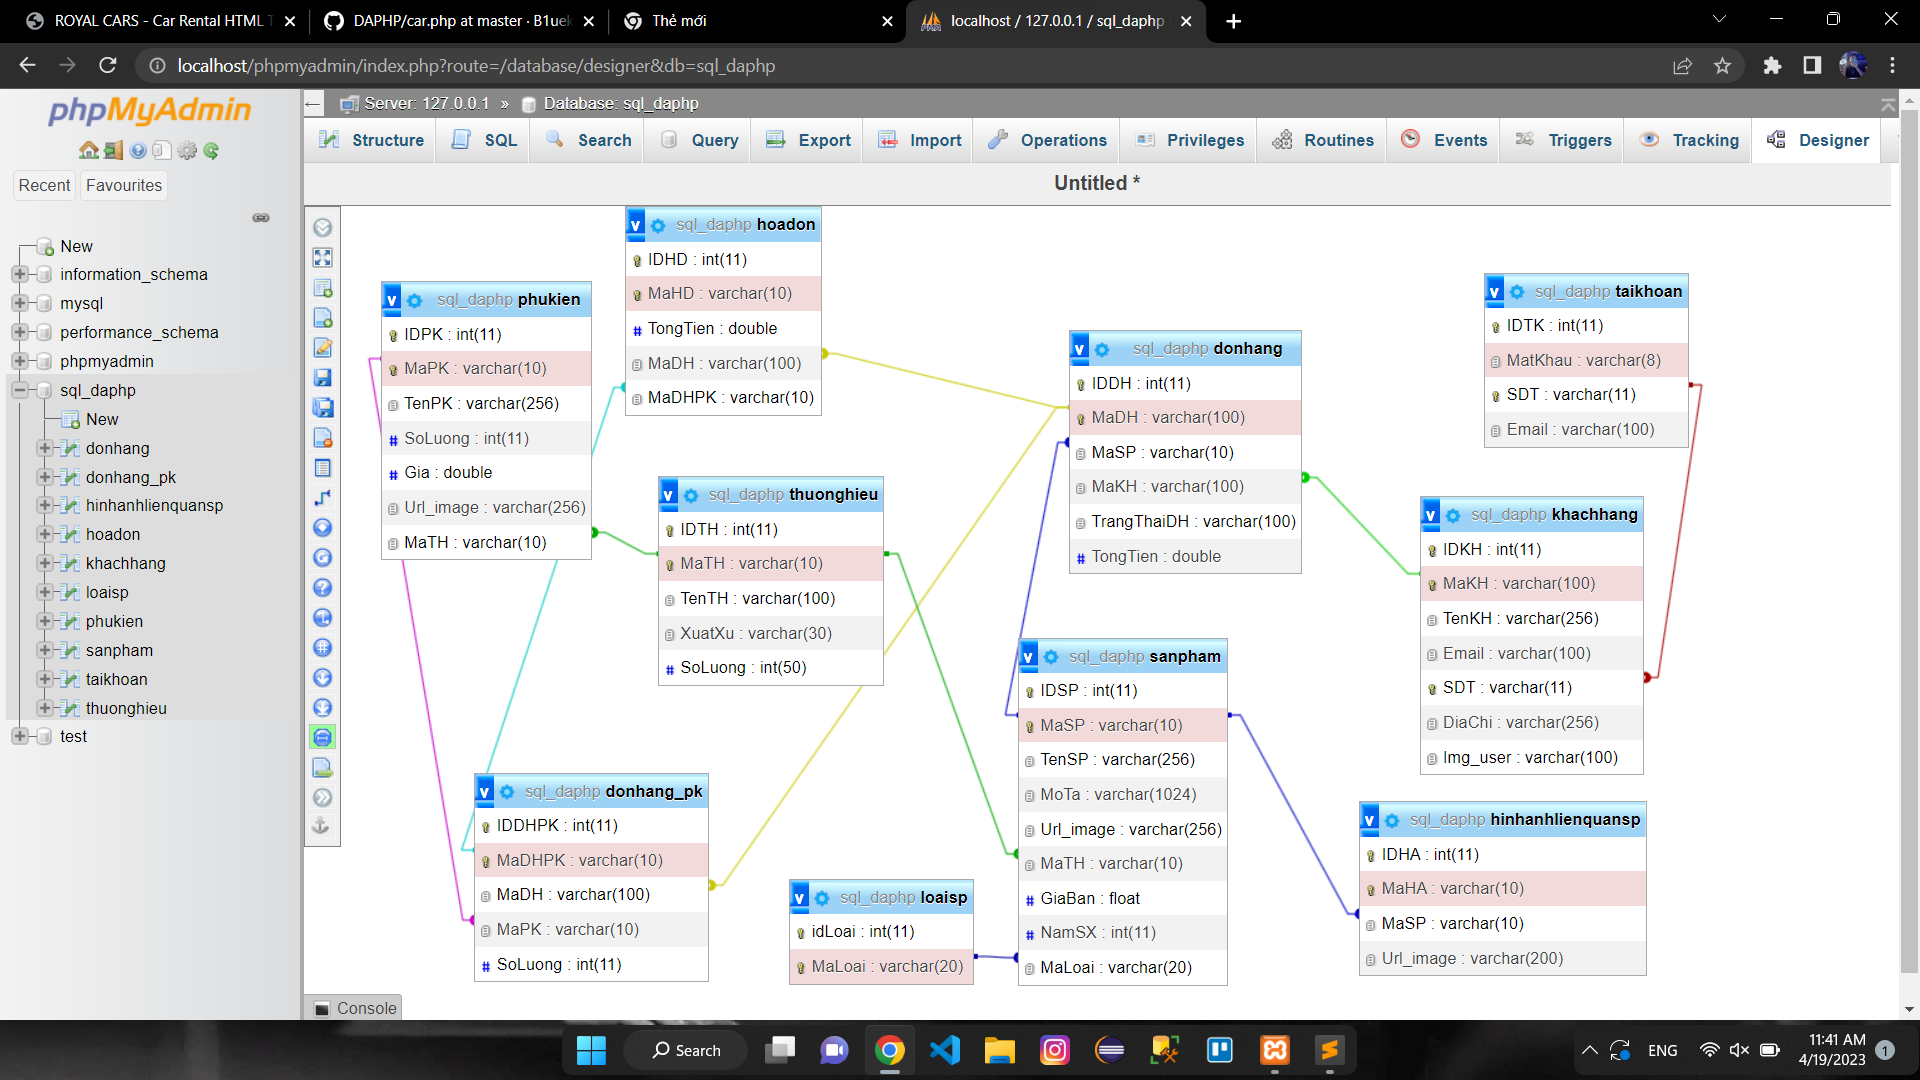
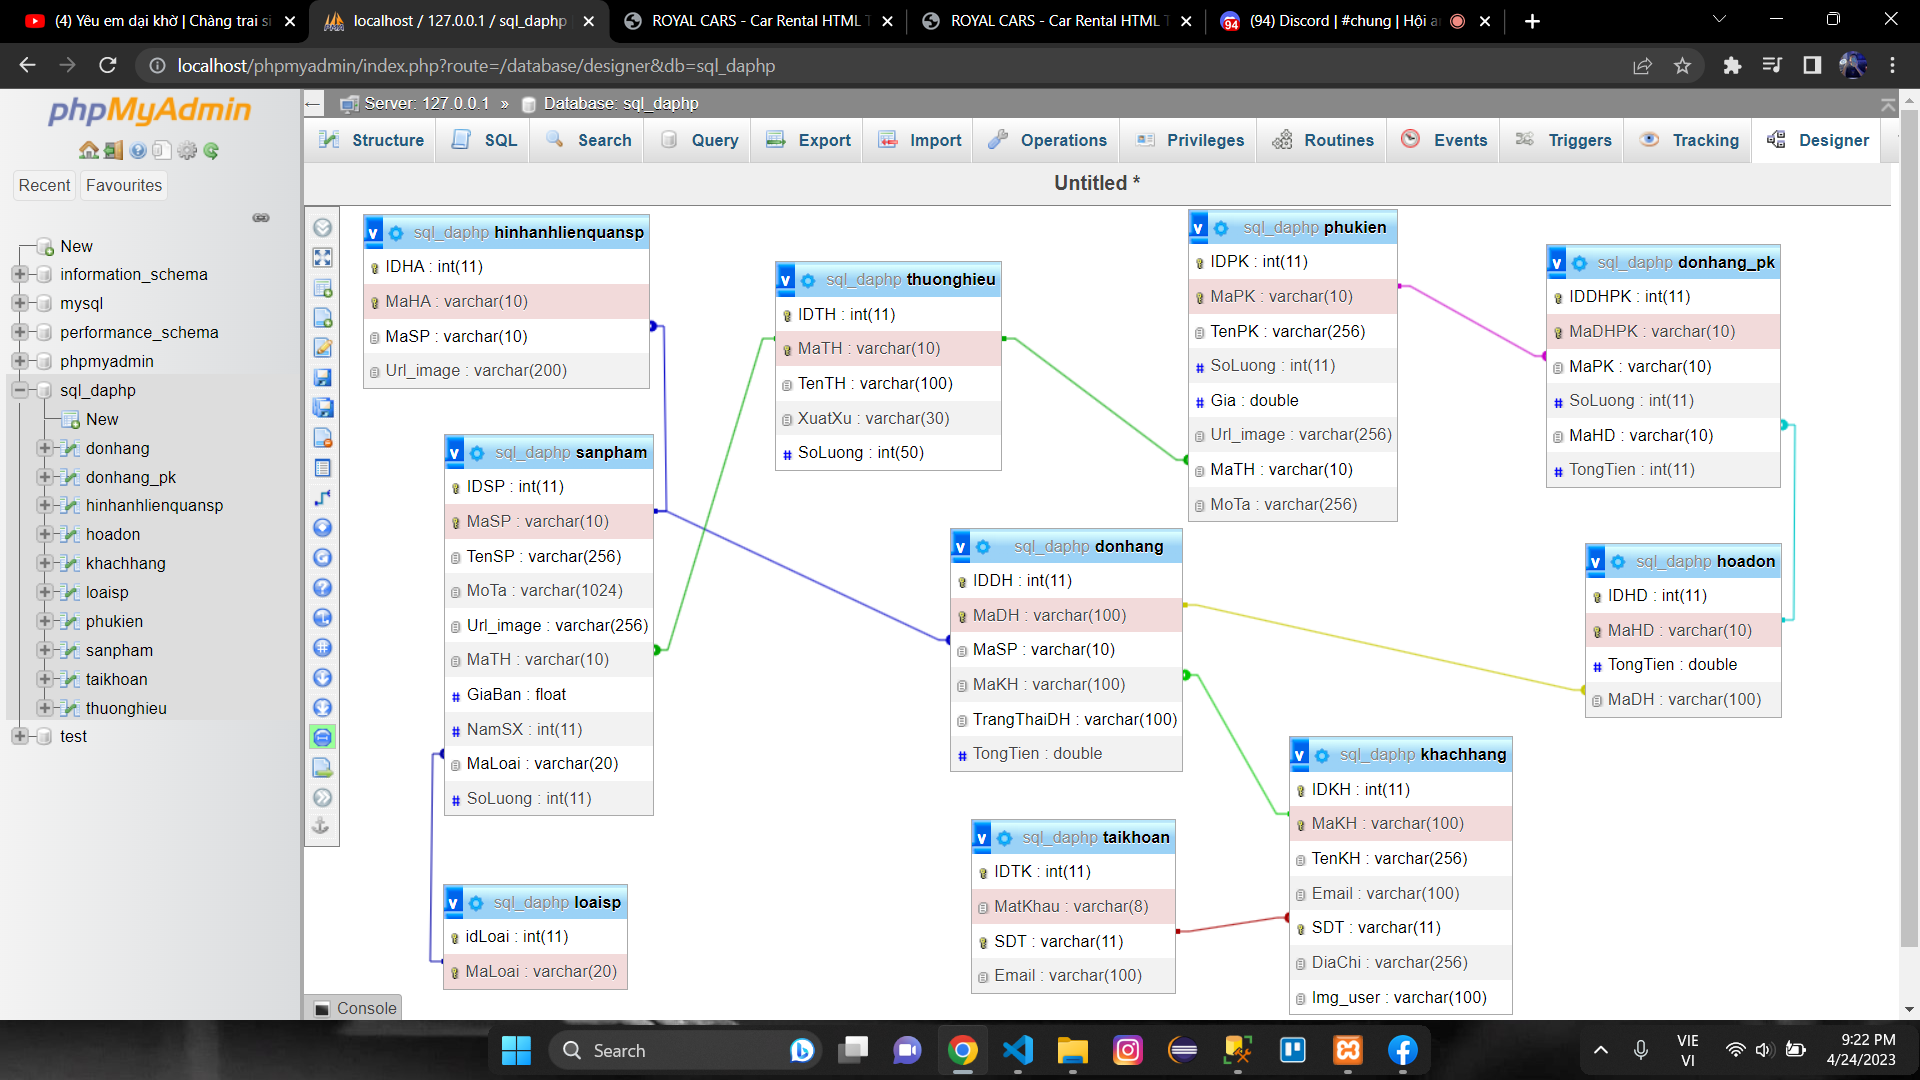
fix CreateOrder.php

diff --git a/CreateOrder.php b/CreateOrder.php
@@ -24,12 +24,12 @@
         $date = date('YmdHis'); // Chuỗi thời gian hiện tại
         $max = strlen($characters) - 1;
         for ($i = 0; $i < $length; $i++) {
-        $result .= $characters[mt_rand(0, $max)]; // Chọn một ký tự ngẫu nhiên từ các ký tự cho sẵn và thêm vào chuỗi kết quả
+            $result .= $characters[mt_rand(0, $max)]; // Chọn một ký tự ngẫu nhiên từ các ký tự cho sẵn và thêm vào chuỗi kết quả
         }
         return $date . $result; // Trả về mã đơn hàng ngẫu nhiên
     }
     function generateMAHD() {
-        $length = 10; // Số ký tự cho mã đơn hàng
+        $length = 20; // Số ký tự cho mã đơn hàng
         $characters = 'ABCDEFGHIJKLMNOPQRSTUVWXYZ0123456789'; //Các ký tự cho mã đơn hàng
         $result = '';
         $max = strlen($characters) - 1;
@@ -49,32 +49,63 @@
         die("Connection failed: " . mysqli_connect_error());
     }
     $sql = sprintf("SELECT  * FROM khachhang WHERE SDT = '%s'", $_SESSION['current_username']);
-    //var_dump($sql);
     $result = mysqli_query($conn, $sql);
     $row = mysqli_fetch_assoc($result);
     $MaKH = $row['MaKH'];
 
-    //echo($MaKH);
-
 
     
-    $MaDH = generateOrderCode();
+    
     $MaHD = generateMAHD(); 
     foreach($_SESSION['cart'] as $product ){
         
         if($product['type']=='car'){
+            $MaDH = generateOrderCode();
+            $sql2 = sprintf("SELECT  * FROM sanpham WHERE MaSP = '%s'", $product['MaSP']);
+            $result2 = mysqli_query($conn, $sql2);
+            $row2 = mysqli_fetch_assoc($result2);
 
-            $taoDH = sprintf("INSERT INTO `donhang`(`MaDH`, `MaSP`, `MaKH`, `TrangThaiDH`, `TongTien`) VALUES ('%s','%s','%s','Prepared','%s')", $MaDH, $product['MaSP'], $MaKH, $Totalcar);
-            //$result1 = mysqli_query($conn, $taoDH);
-            //var_dump($taoDH);
-            //echo($product['MaSP']. "   ");
+            $current_quality = $row2['SoLuong']- $product['quantity'];
+            if($current_quality >= 0){
+                $update_sp = sprintf("UPDATE `sanpham` SET `SoLuong`='%d' WHERE MaSP = '%s'", $current_quality, $product['MaSP']);
+                //var_dump($update_sp);
+                $result3 = mysqli_query($conn, $update_sp);
+            }
+            
+
+            $taoDH = sprintf("INSERT INTO `donhang`(`MaDH`, `MaSP`, `MaKH`, `TrangThaiDH`, `Gia`) VALUES ('%s','%s','%s','Preparing','%f')", $MaDH, $product['MaSP'], $MaKH, $Totalcar);
+            $result4 = mysqli_query($conn, $taoDH);
+            $taoHD = sprintf("INSERT INTO `hoadon`(`MaHD`, `TongTien`, `MaDH`) VALUES ('%s','%f','%s')", $MaHD, $Total, $MaDH);
+            $result5 = mysqli_query($conn, $taoHD);
         }
         else{
+             
             $MaDHPK = generateOrderCode1();
-            $taoDH_PK = sprintf("INSERT INTO `donhang_pk`(`MaDHPK`, `MaDH`, `MaPK`, `SoLuong`, , `MaHD`) VALUES ('%s','%s','%s','%s')",$MaDHPK, $MaDH, $product['MaSP'], $product['quantity'] );
+            
+
+
+
+            
+            $sql1 = sprintf("SELECT  * FROM phukien WHERE MaPK = '%s'", $product['MaSP']);
+            $result1 = mysqli_query($conn, $sql1);
+            $row1 = mysqli_fetch_assoc($result1);
+
+
+            $current_quality = $row1['SoLuong']- $product['quantity'];
+            if($current_quality >= 0){
+                $update_pk = sprintf("UPDATE `phukien` SET `SoLuong`='%d' WHERE MaPK = '%s'", $current_quality, $product['MaSP']);
+                $result7 = mysqli_query($conn, $update_pk);
+            }  
+
+            $taoDH_PK = sprintf("INSERT INTO `donhang_pk`(`MaDHPK`, `MaPK`, `SoLuong`, `MaHD`, `Gia`) VALUES ('%s','%s','%s','%s','%s')",$MaDHPK, $product['MaSP'], $product['quantity'], $MaHD, $row1['Gia']);
+            $result6 = mysqli_query($conn, $taoDH_PK);
+            var_dump($taoDH_PK);
+            //var_dump($update_pk);
         }
     }
-    echo($MaHD);
-    echo($taoDH);
-    echo($taoDH_PK);
+    unset($_SESSION['cart']);
+    
+    //var_dump($taoDH);
+    //var_dump($taoHD);
+    
  ?>
